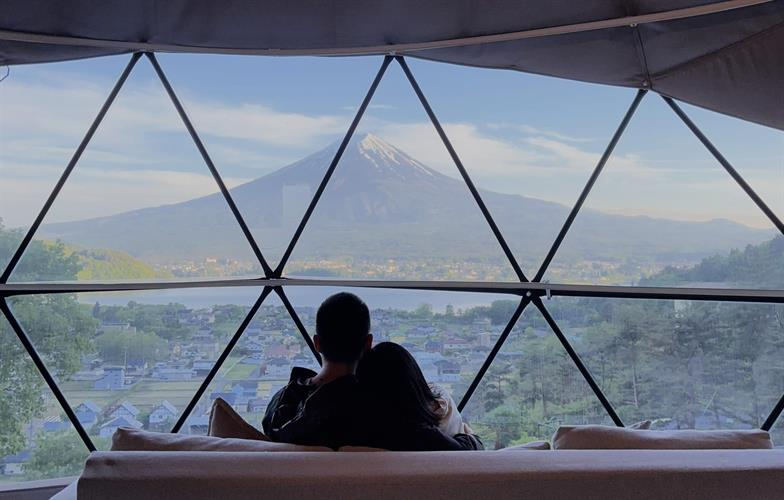
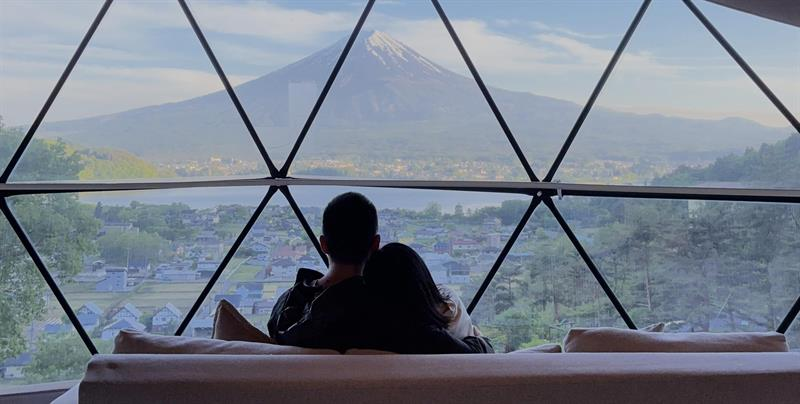
Update cropped photos, move map legend to top, and remove map white borders and extra spacing

diff --git a/index.html b/index.html
@@ -209,7 +209,7 @@
                     <!-- Map Pins -->
                     <!-- RED PINS (Personal) -->
                     <!-- Nepal -->
-                    <div class="map-pin pin-red" style="top: 45%; left: 74.5%;" data-location="nepal">
+                    <div class="map-pin pin-red" style="top: 37.62%; left: 75.78%;" data-location="nepal">
                         <div class="pin-pulse"></div>
                         <div class="pin-dot"><i class="fa-solid fa-location-dot"></i></div>
                         <div class="pin-tooltip">
@@ -220,7 +220,7 @@
                     </div>
 
                     <!-- Tour du Mont Blanc -->
-                    <div class="map-pin pin-red" style="top: 31%; left: 49.3%;" data-location="tmb">
+                    <div class="map-pin pin-red" style="top: 16.54%; left: 49.32%;" data-location="tmb">
                         <div class="pin-pulse"></div>
                         <div class="pin-dot"><i class="fa-solid fa-location-dot"></i></div>
                         <div class="pin-tooltip">
@@ -231,7 +231,7 @@
                     </div>
 
                     <!-- Alta Via 2 -->
-                    <div class="map-pin pin-red" style="top: 32.5%; left: 50.8%;" data-location="altavia">
+                    <div class="map-pin pin-red" style="top: 18.79%; left: 50.89%;" data-location="altavia">
                         <div class="pin-pulse"></div>
                         <div class="pin-dot"><i class="fa-solid fa-location-dot"></i></div>
                         <div class="pin-tooltip">
@@ -242,7 +242,7 @@
                     </div>
 
                     <!-- Peru -->
-                    <div class="map-pin pin-red" style="top: 61%; left: 32.5%;" data-location="peru">
+                    <div class="map-pin pin-red" style="top: 61.71%; left: 31.67%;" data-location="peru">
                         <div class="pin-pulse"></div>
                         <div class="pin-dot"><i class="fa-solid fa-location-dot"></i></div>
                         <div class="pin-tooltip">
@@ -253,7 +253,7 @@
                     </div>
 
                     <!-- Washington (Personal) -->
-                    <div class="map-pin pin-red" style="top: 25.5%; left: 16%;" data-location="washington-personal">
+                    <div class="map-pin pin-red" style="top: 8.25%; left: 14.34%;" data-location="washington-personal">
                         <div class="pin-pulse"></div>
                         <div class="pin-dot"><i class="fa-solid fa-location-dot"></i></div>
                         <div class="pin-tooltip">
@@ -264,7 +264,7 @@
                     </div>
 
                     <!-- Texas (Personal) -->
-                    <div class="map-pin pin-red" style="top: 41%; left: 23%;" data-location="texas-personal">
+                    <div class="map-pin pin-red" style="top: 31.59%; left: 21.69%;" data-location="texas-personal">
                         <div class="pin-pulse"></div>
                         <div class="pin-dot"><i class="fa-solid fa-location-dot"></i></div>
                         <div class="pin-tooltip">
@@ -275,7 +275,7 @@
                     </div>
 
                     <!-- Brooklyn (Personal) -->
-                    <div class="map-pin pin-red" style="top: 33.5%; left: 27.5%;" data-location="brooklyn-personal">
+                    <div class="map-pin pin-red" style="top: 20.3%; left: 26.42%;" data-location="brooklyn-personal">
                         <div class="pin-pulse"></div>
                         <div class="pin-dot"><i class="fa-solid fa-location-dot"></i></div>
                         <div class="pin-tooltip">
@@ -287,7 +287,7 @@
 
                     <!-- BLUE PINS (Professional) -->
                     <!-- Seattle (Professional) -->
-                    <div class="map-pin pin-blue" style="top: 27.5%; left: 15%;" data-location="seattle-professional">
+                    <div class="map-pin pin-blue" style="top: 11.26%; left: 13.29%;" data-location="seattle-professional">
                         <div class="pin-pulse"></div>
                         <div class="pin-dot"><i class="fa-solid fa-briefcase"></i></div>
                         <div class="pin-tooltip">
@@ -298,7 +298,7 @@
                     </div>
 
                     <!-- Houston (Professional) -->
-                    <div class="map-pin pin-blue" style="top: 42.5%; left: 22.5%;" data-location="houston-professional">
+                    <div class="map-pin pin-blue" style="top: 33.85%; left: 21.17%;" data-location="houston-professional">
                         <div class="pin-pulse"></div>
                         <div class="pin-dot"><i class="fa-solid fa-briefcase"></i></div>
                         <div class="pin-tooltip">
@@ -309,7 +309,7 @@
                     </div>
 
                     <!-- New York (Professional) -->
-                    <div class="map-pin pin-blue" style="top: 32.5%; left: 27%;" data-location="ny-professional">
+                    <div class="map-pin pin-blue" style="top: 18.79%; left: 25.9%;" data-location="ny-professional">
                         <div class="pin-pulse"></div>
                         <div class="pin-dot"><i class="fa-solid fa-briefcase"></i></div>
                         <div class="pin-tooltip">
@@ -320,7 +320,7 @@
                     </div>
 
                     <!-- Columbus (Professional) -->
-                    <div class="map-pin pin-blue" style="top: 33.5%; left: 25.5%;" data-location="columbus-professional">
+                    <div class="map-pin pin-blue" style="top: 20.3%; left: 24.32%;" data-location="columbus-professional">
                         <div class="pin-pulse"></div>
                         <div class="pin-dot"><i class="fa-solid fa-briefcase"></i></div>
                         <div class="pin-tooltip">

diff --git a/style.css b/style.css
@@ -1285,12 +1285,12 @@ body.dark-mode .floating-dock {
 /* Travel Map Section Styles */
 .travel-map-section {
     background-color: var(--bg-secondary);
-    padding: 40px 0;
+    padding: 15px 0;
 }
 
 .travel-map-section .section-header {
     max-width: 1000px;
-    margin-bottom: 24px;
+    margin-bottom: 16px;
 }
 
 .map-container {
@@ -1308,7 +1308,7 @@ body.dark-mode .floating-dock {
 
 .map-legend {
     position: absolute;
-    bottom: 20px;
+    top: 20px;
     left: 20px;
     background-color: rgba(253, 251, 247, 0.95);
     border: 1px solid var(--border-color);
@@ -1533,6 +1533,7 @@ body.dark-mode .pin-tooltip::after {
     }
     .map-legend {
         position: relative;
+        top: auto;
         bottom: auto;
         left: auto;
         margin: 16px auto 0 auto;
